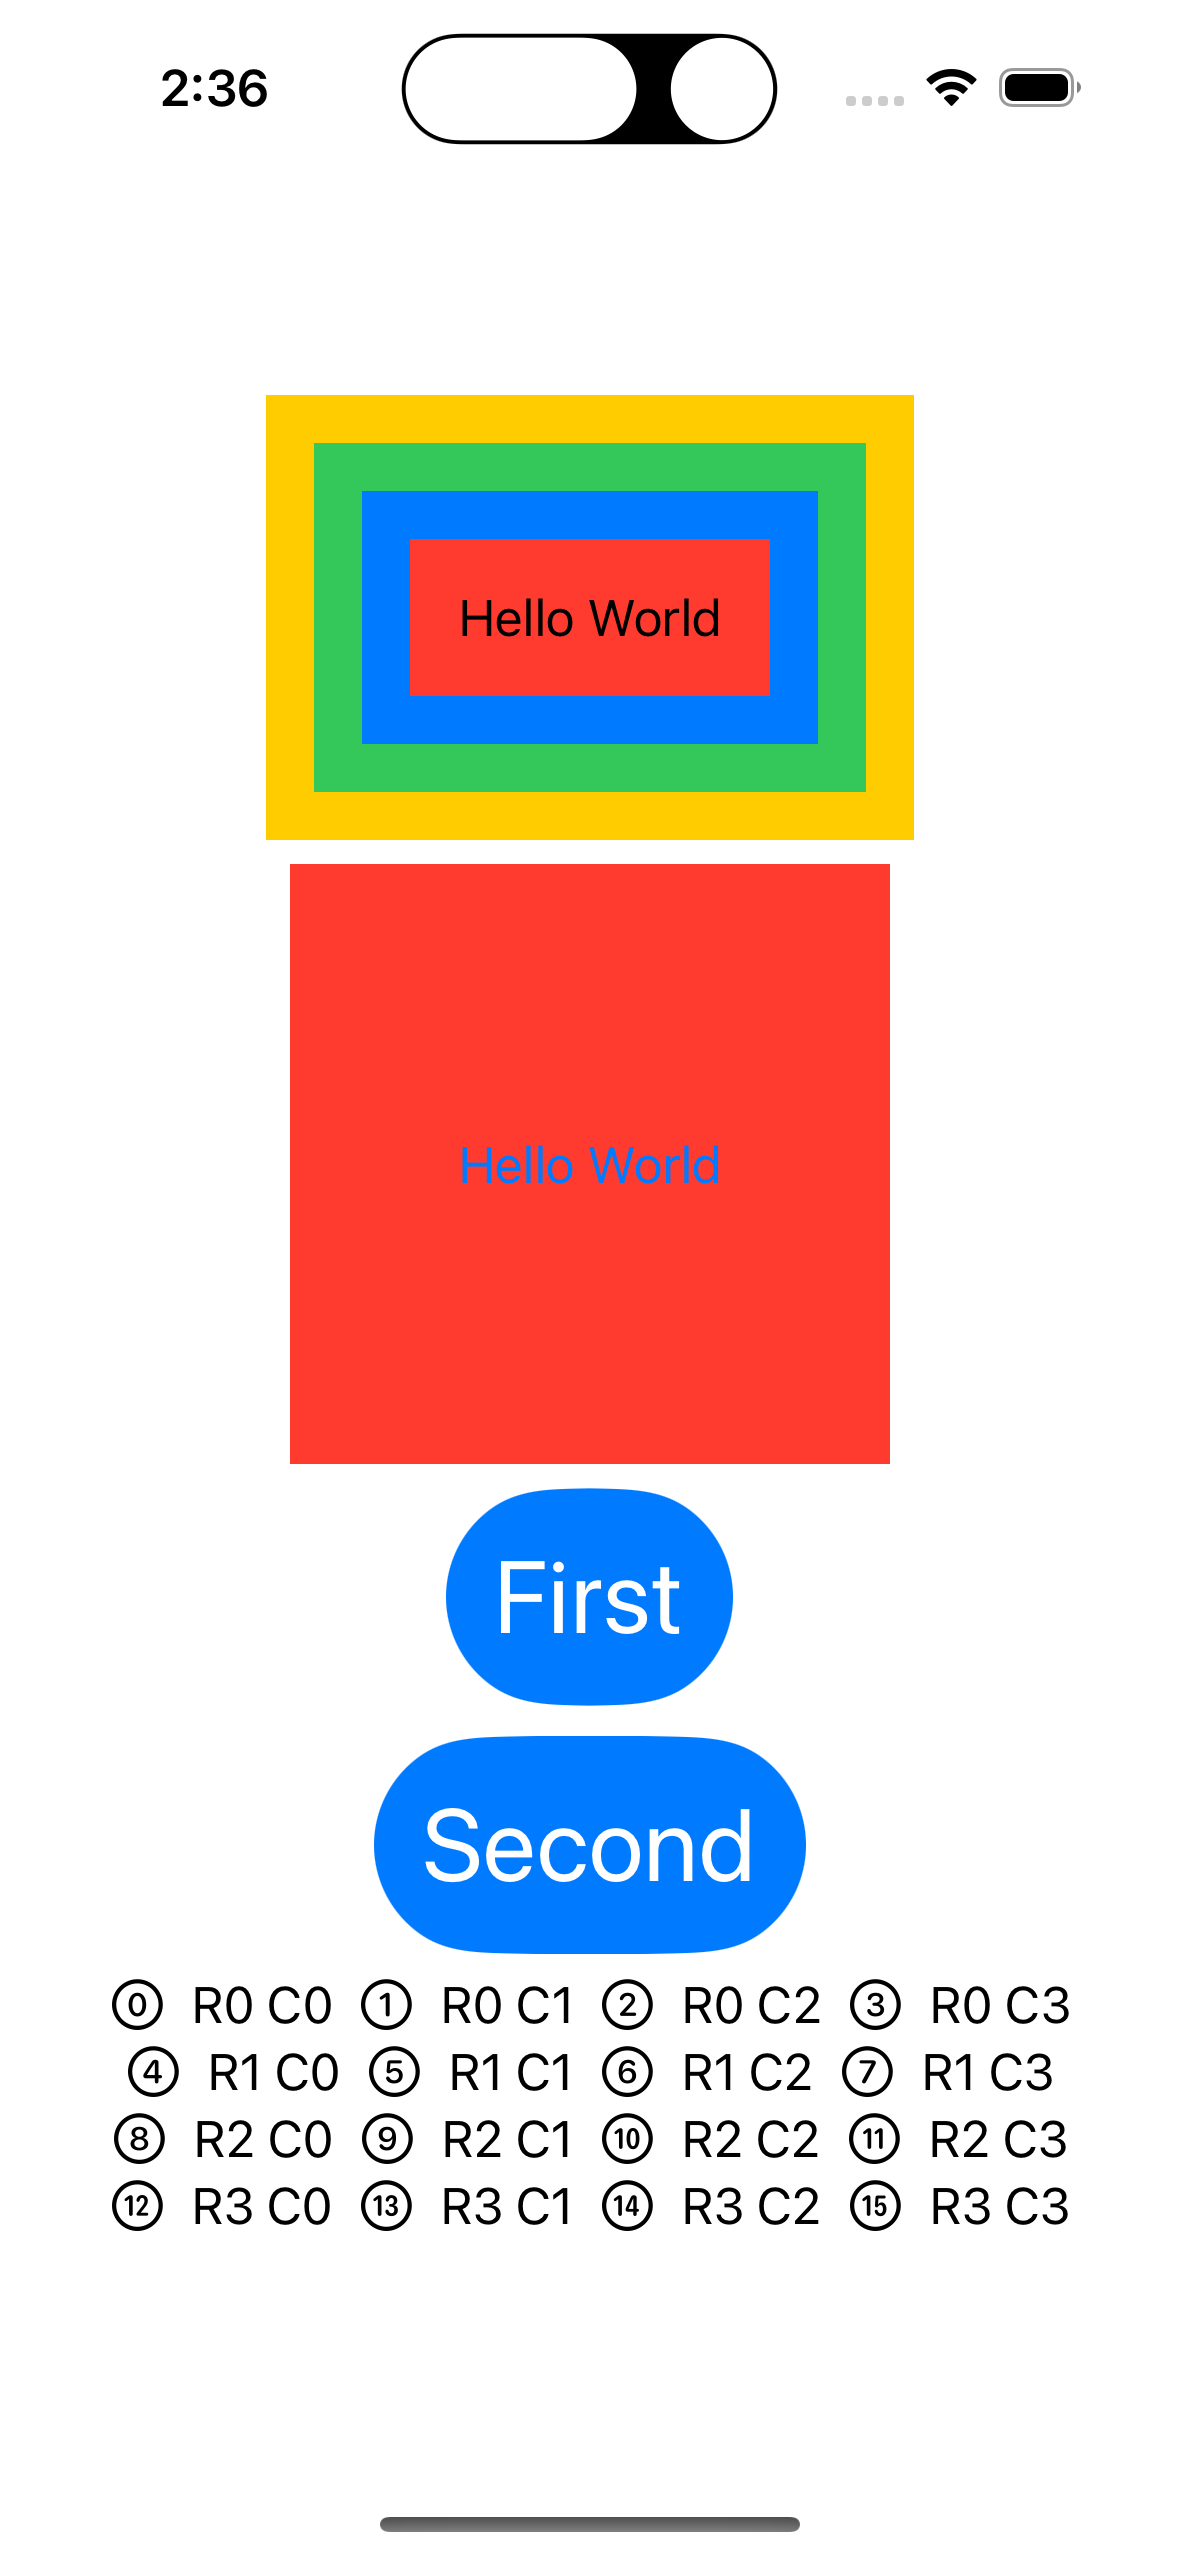
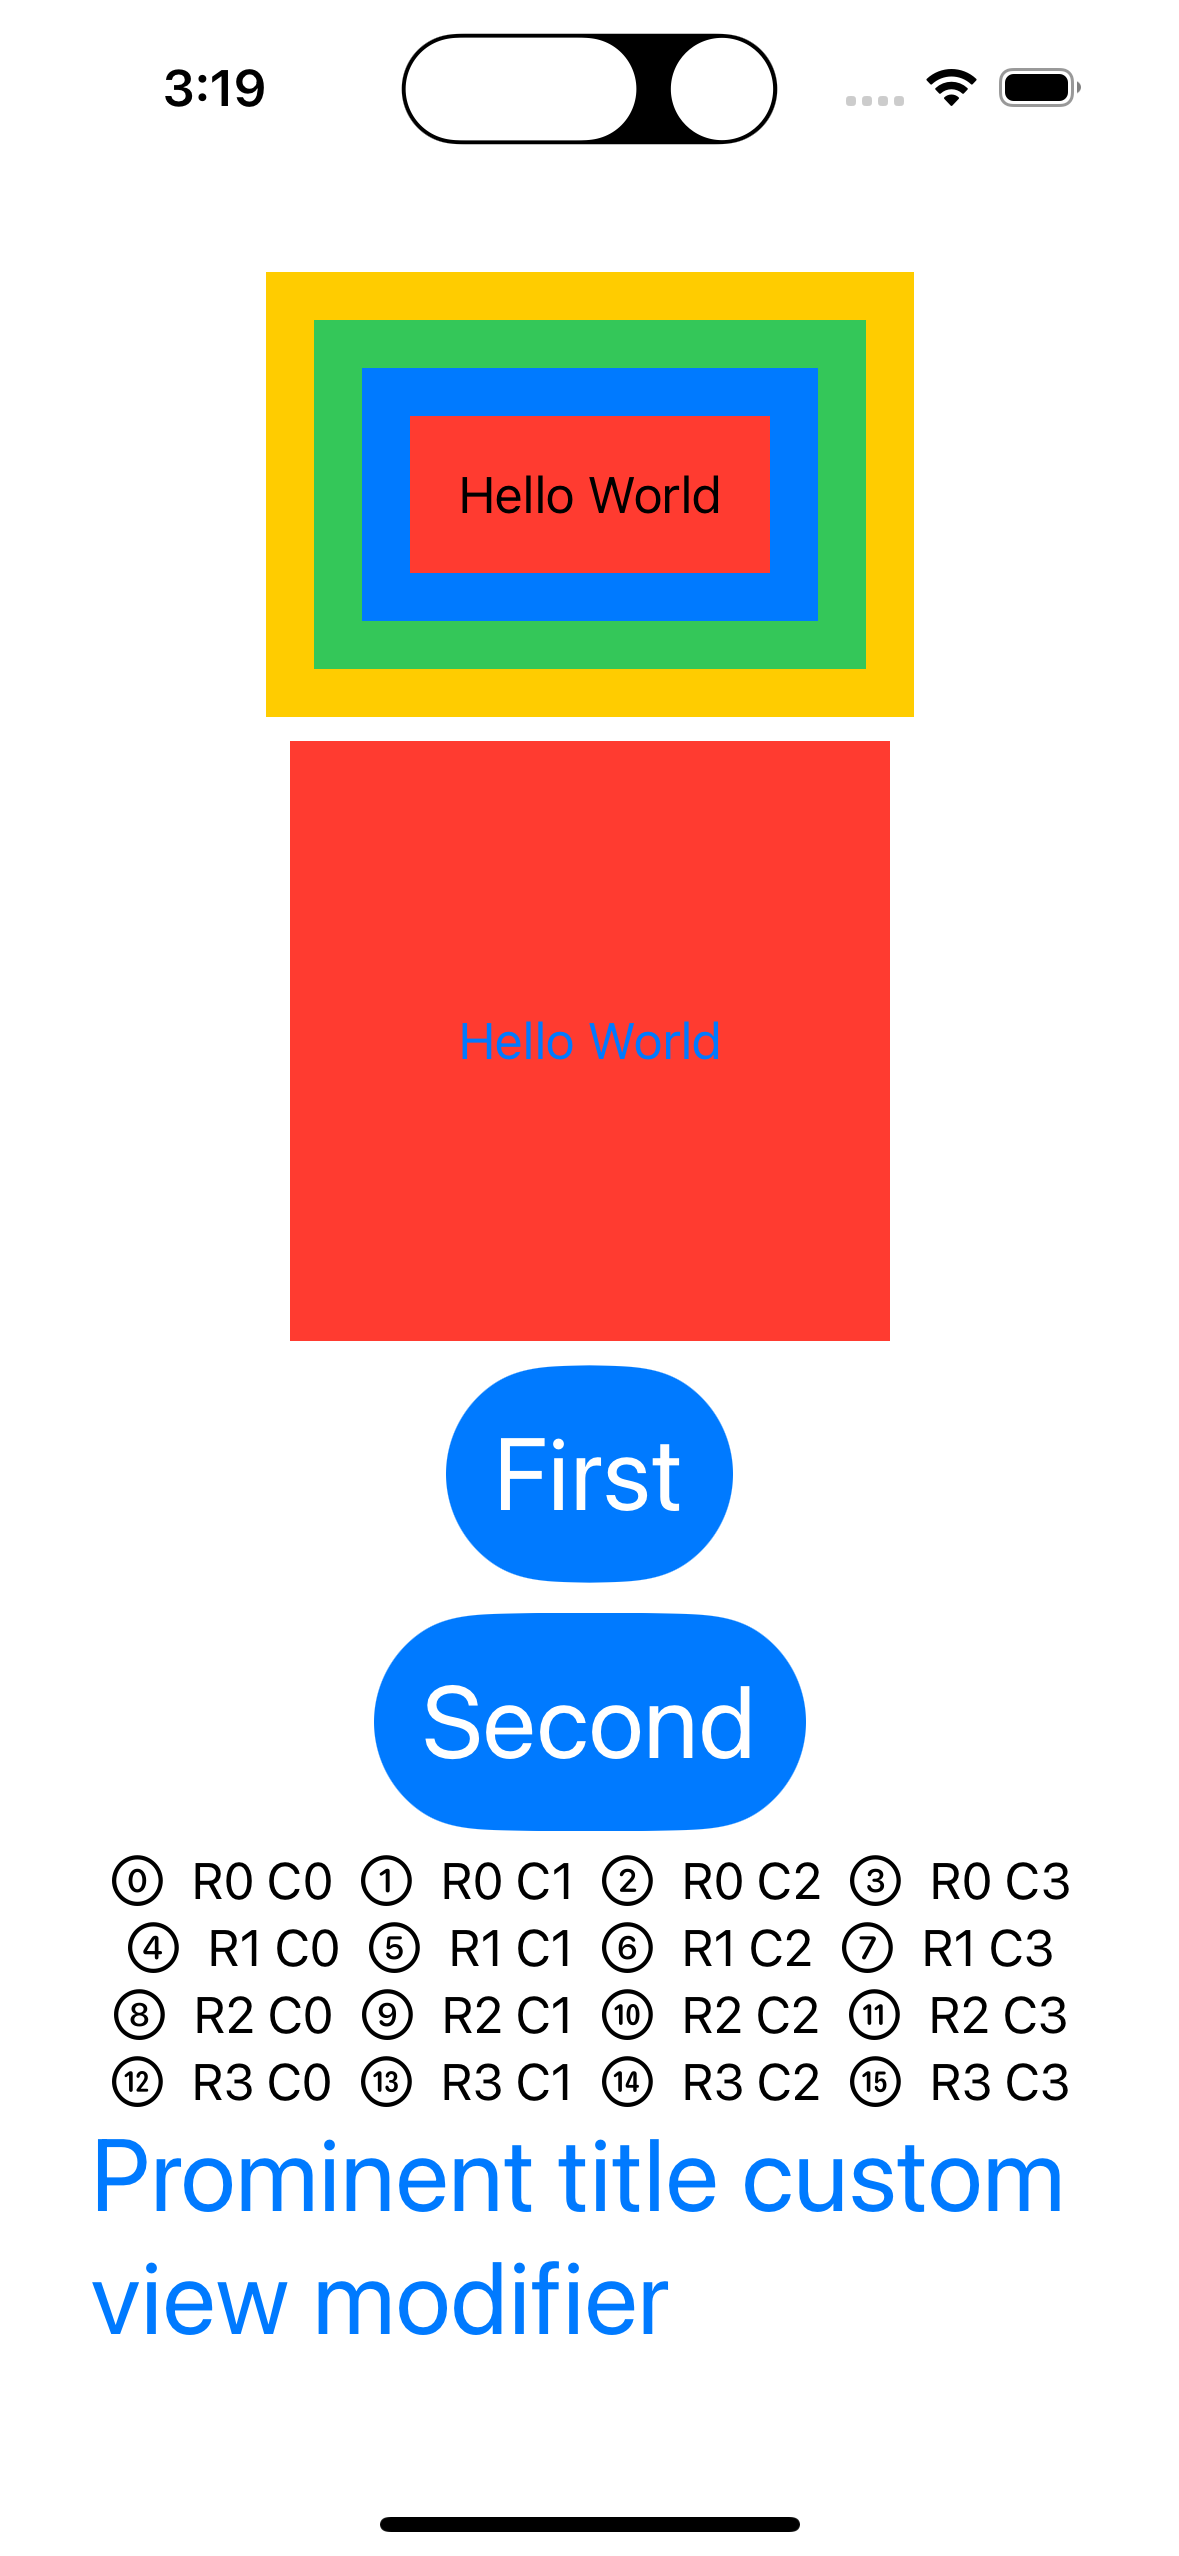
Added new challenges to project 1, 2 and 3

diff --git a/03 - Guess The Flag/GuessTheFlag/GuessTheFlag/ContentView.swift b/03 - Guess The Flag/GuessTheFlag/GuessTheFlag/ContentView.swift
@@ -7,6 +7,17 @@
 
 import SwiftUI
 
+// Challenge 4
+/* Replace the Image view used for flags with a new FlagImage() view that renders one flag image using the specific set of modifiers we had.*/
+struct FlagImage: View {
+    var imageName: String
+    var body: some View {
+        Image(imageName)
+            .clipShape(.capsule)
+            .shadow(radius: 5)
+    }
+}
+
 struct ContentView: View {
     @State private var countries = ["Estonia", "France", "Germany", "Ireland", "Italy", "Nigeria", "Poland", "Spain", "UK", "Ukraine", "US"].shuffled()
     @State private var correctAnswer = Int.random(in: 0...2)
@@ -52,9 +63,7 @@ struct ContentView: View {
                         Button {
                             flagTapped(number)
                         } label: {
-                            Image(countries[number])
-                                .clipShape(.capsule)
-                                .shadow(radius: 5)
+                            FlagImage(imageName: countries[number])
                         }
                     }
                 }

diff --git a/01 - WeSplit/WeSplit/WeSplit/ContentView.swift b/01 - WeSplit/WeSplit/WeSplit/ContentView.swift
@@ -10,6 +10,7 @@
  1. Add a header to the third section, saying “Amount per person”
  2. Add another section showing the total amount for the check – i.e., the original amount plus tip value, without dividing by the number of people.
  3. Change the tip percentage picker to show a new screen rather than using a segmented control, and give it a wider range of options – everything from 0% to 100%. Tip: use the range 0..<101 for your range rather than a fixed array.
+ 4. Use a conditional modifier to change the total amount text view to red if the user selects a 0% tip.
  */
 import SwiftUI
 
@@ -69,9 +70,10 @@ struct ContentView: View {
                     .pickerStyle(.navigationLink)
                 }
                 
-                // Challenge 2
+                // Challenge 2 and 4
                 Section("Total Amount") {
                     Text(checkTotal, format: .currency(code: localCurrency))
+                        .foregroundStyle(tipAmount == 0 ? .red : .primary)
                 }
                 
                 // Challenge 1

diff --git a/04 - ViewsAndModifiers/ViewsAndModifiers/ViewsAndModifiers/ContentView.swift b/04 - ViewsAndModifiers/ViewsAndModifiers/ViewsAndModifiers/ContentView.swift
@@ -98,6 +98,21 @@ struct GridStack<Content: View>: View {
     }
 }
 
+// Challenge 1 (Last of Views and modifiers: Wrap up)
+struct ProminentTitle: ViewModifier {
+    func body(content: Content) -> some View {
+        content
+            .font(.largeTitle)
+            .foregroundStyle(.blue)
+    }
+}
+
+extension View {
+    func prominentTitle() -> some View {
+        modifier(ProminentTitle())
+    }
+}
+
 struct ContentView: View {
     var body: some View {
         VStack {
@@ -128,6 +143,9 @@ struct ContentView: View {
                 Image(systemName: "\(row * 4 + col).circle")
                 Text("R\(row) C\(col)")
             }
+            
+            Text("Prominent title custom view modifier")
+                .prominentTitle()
         }
     }
 }
